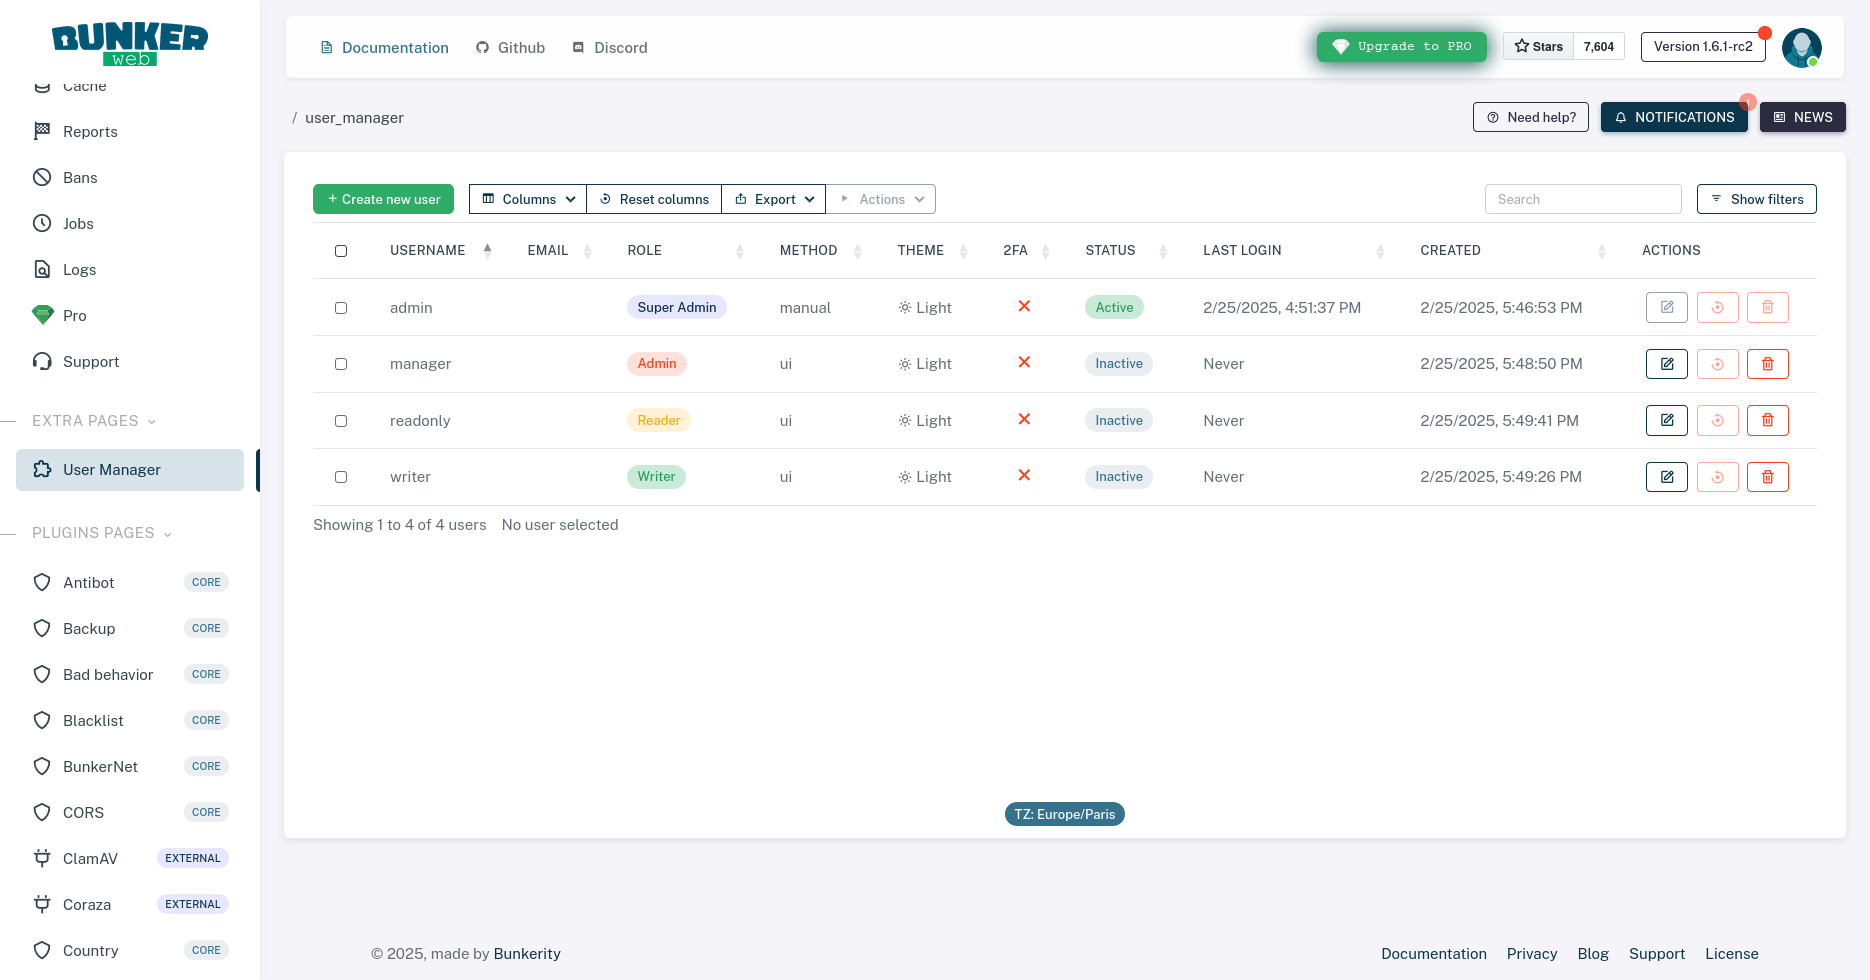
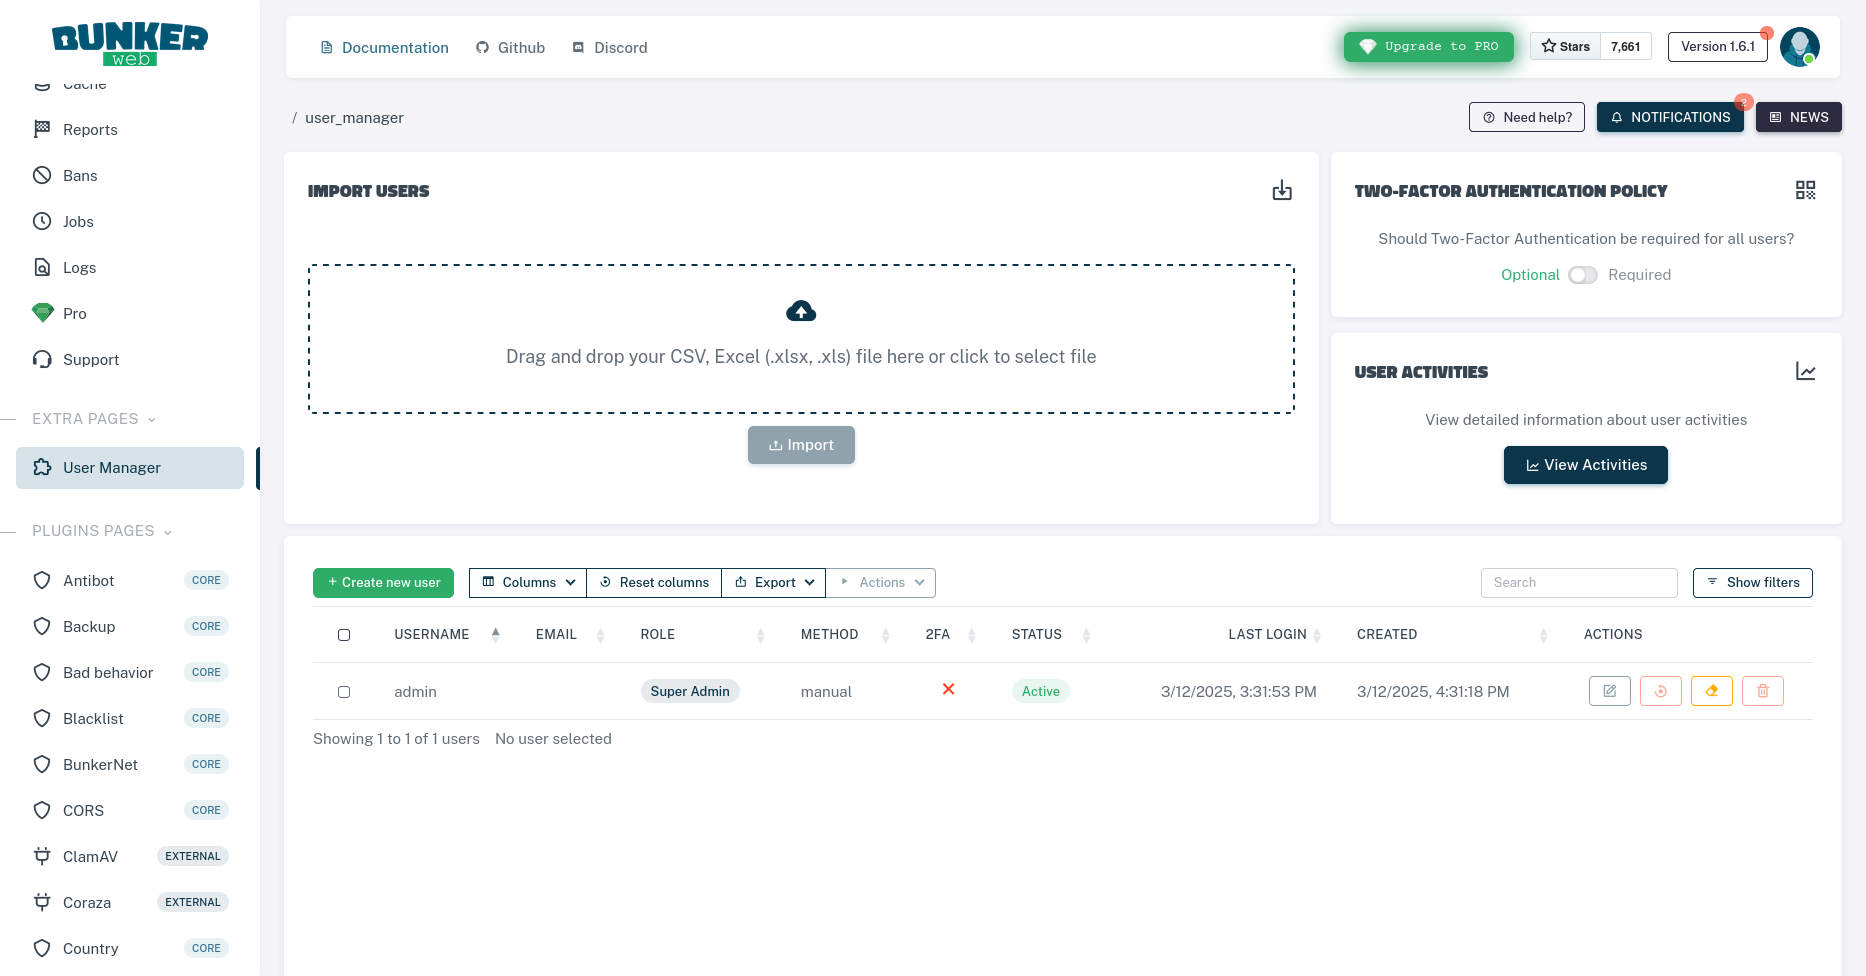
docs: add activities page image and update user manager documentation

diff --git a/docs/advanced.md b/docs/advanced.md
@@ -3397,3 +3397,8 @@ With this plugin, administrators can effortlessly create, update, and disable us
   ![Create user form](assets/img/user-manager-create.png){ align=center }
   <figcaption>User Manager - Create user form</figcaption>
 </figure>
+
+<figure markdown>
+  ![Activities page](assets/img/user-manager-activities.png){ align=center }
+  <figcaption>User Manager - Activities page</figcaption>
+</figure>
